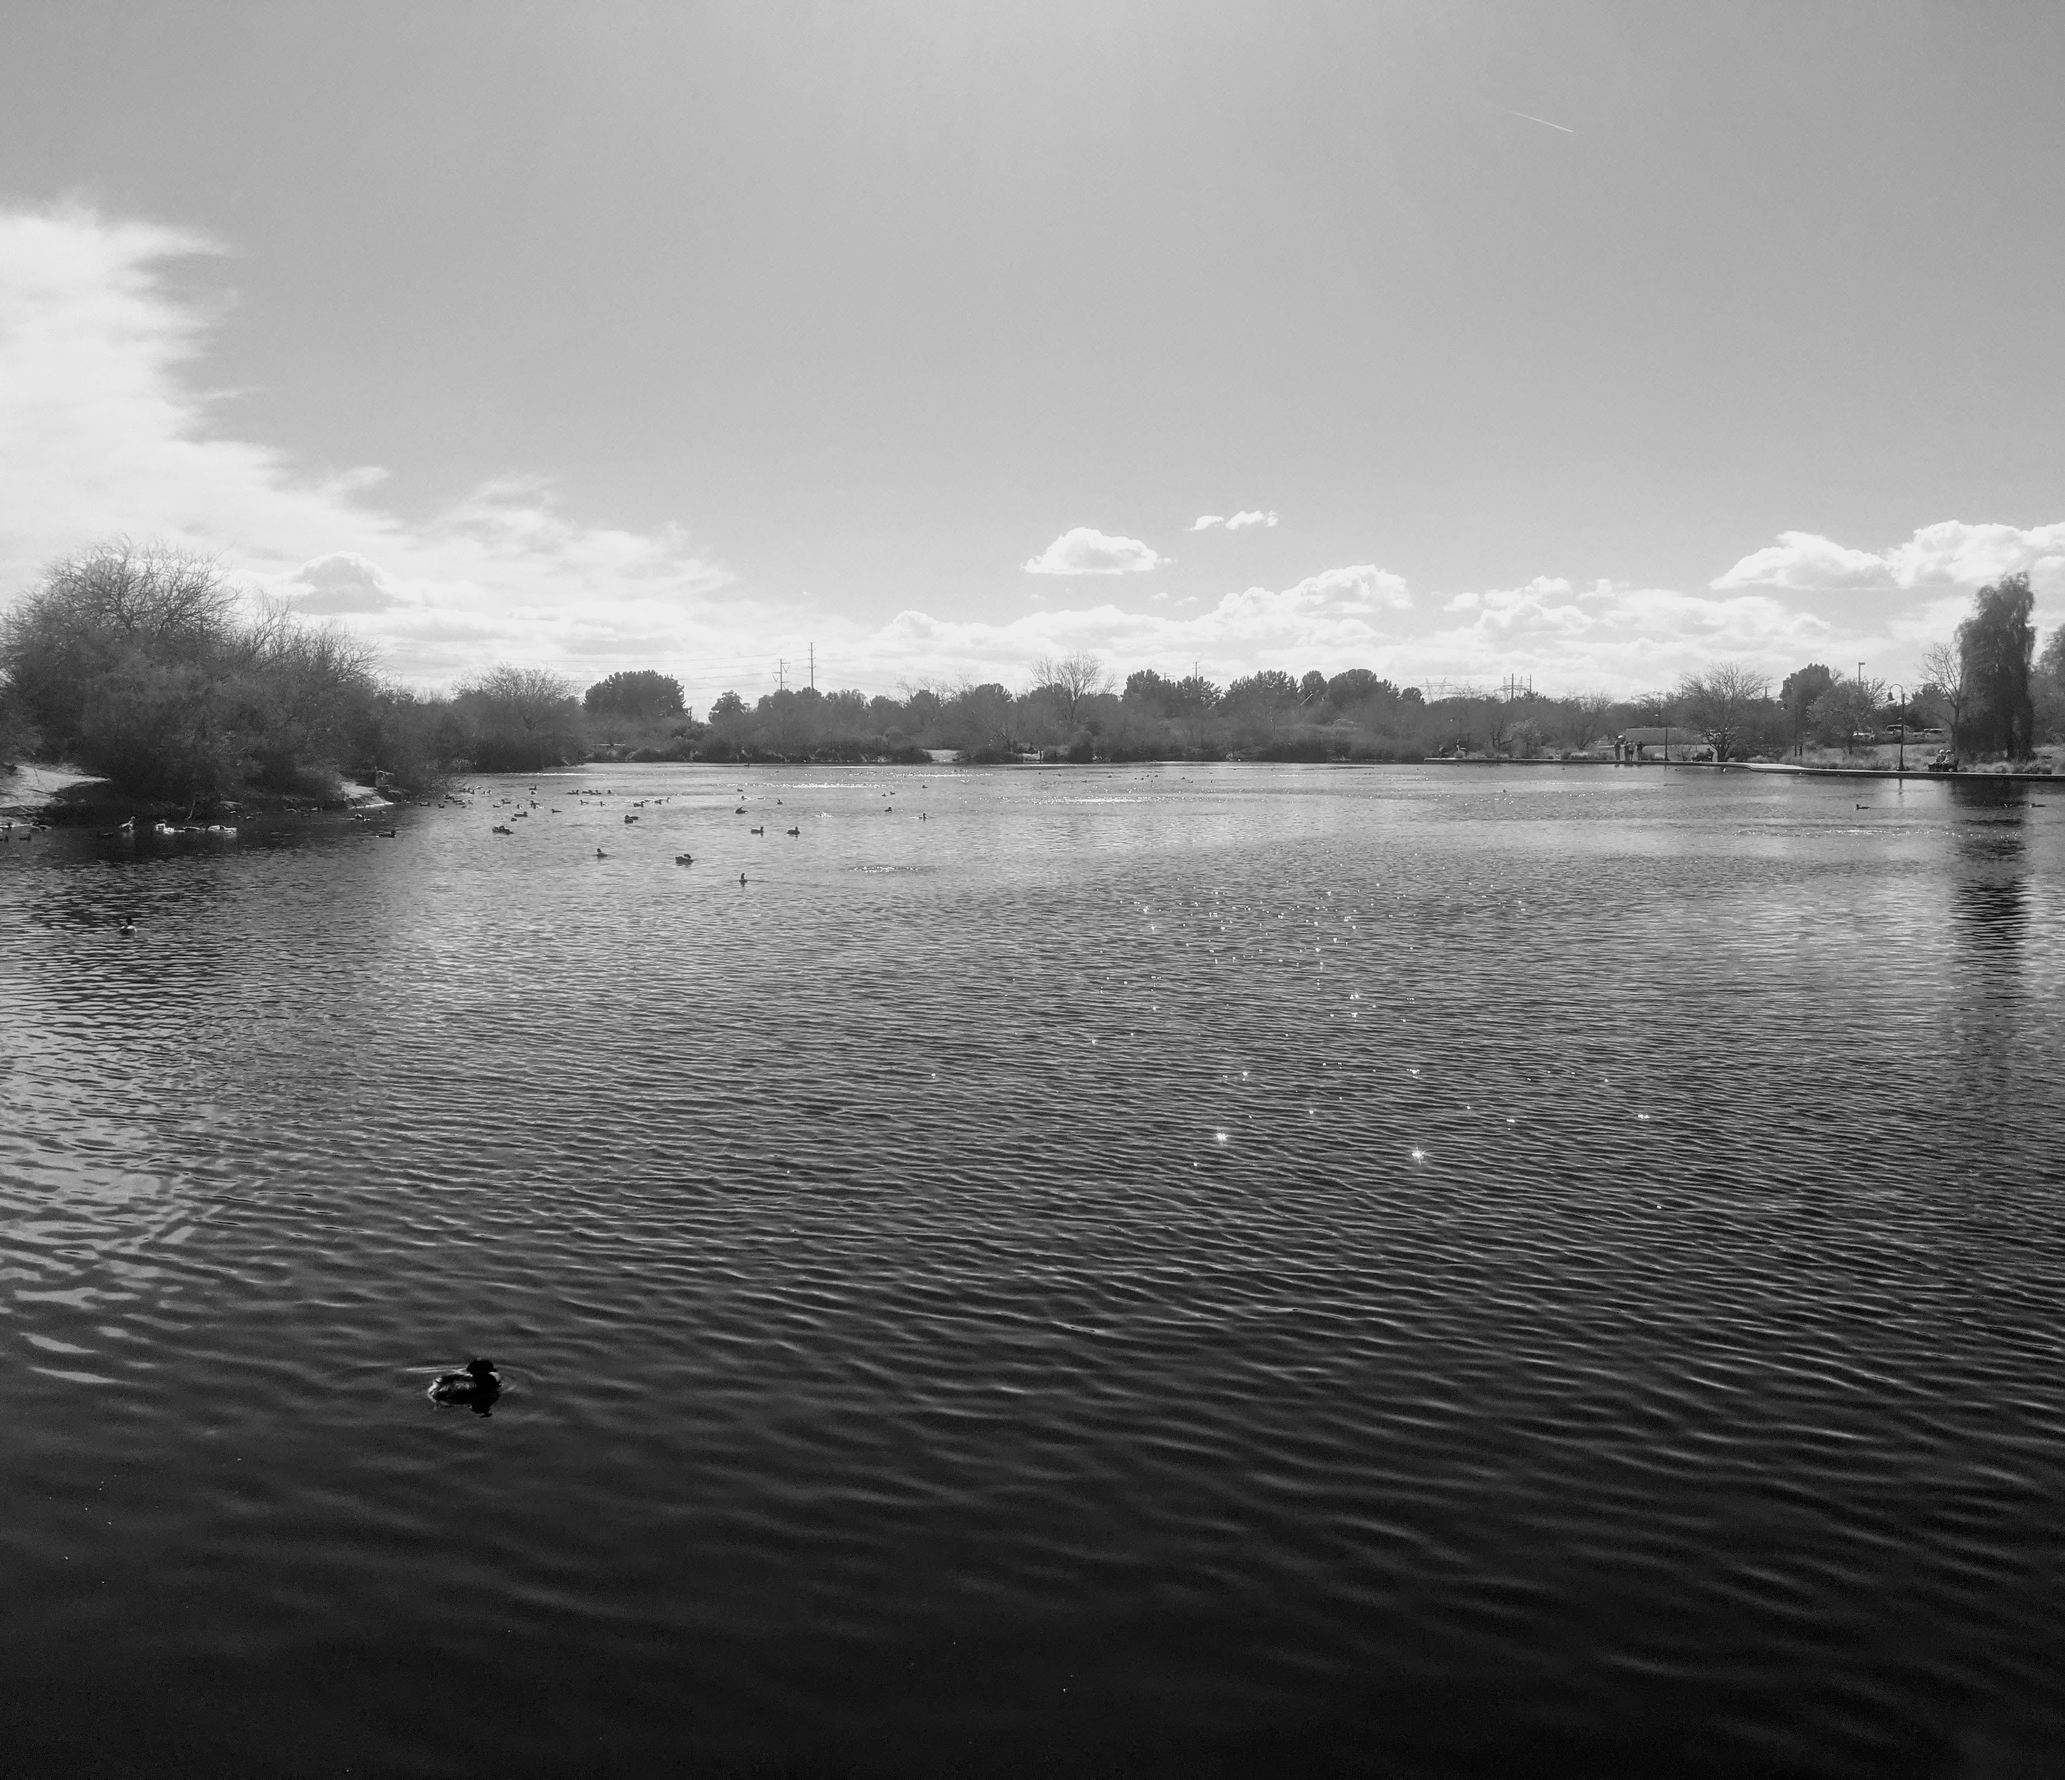
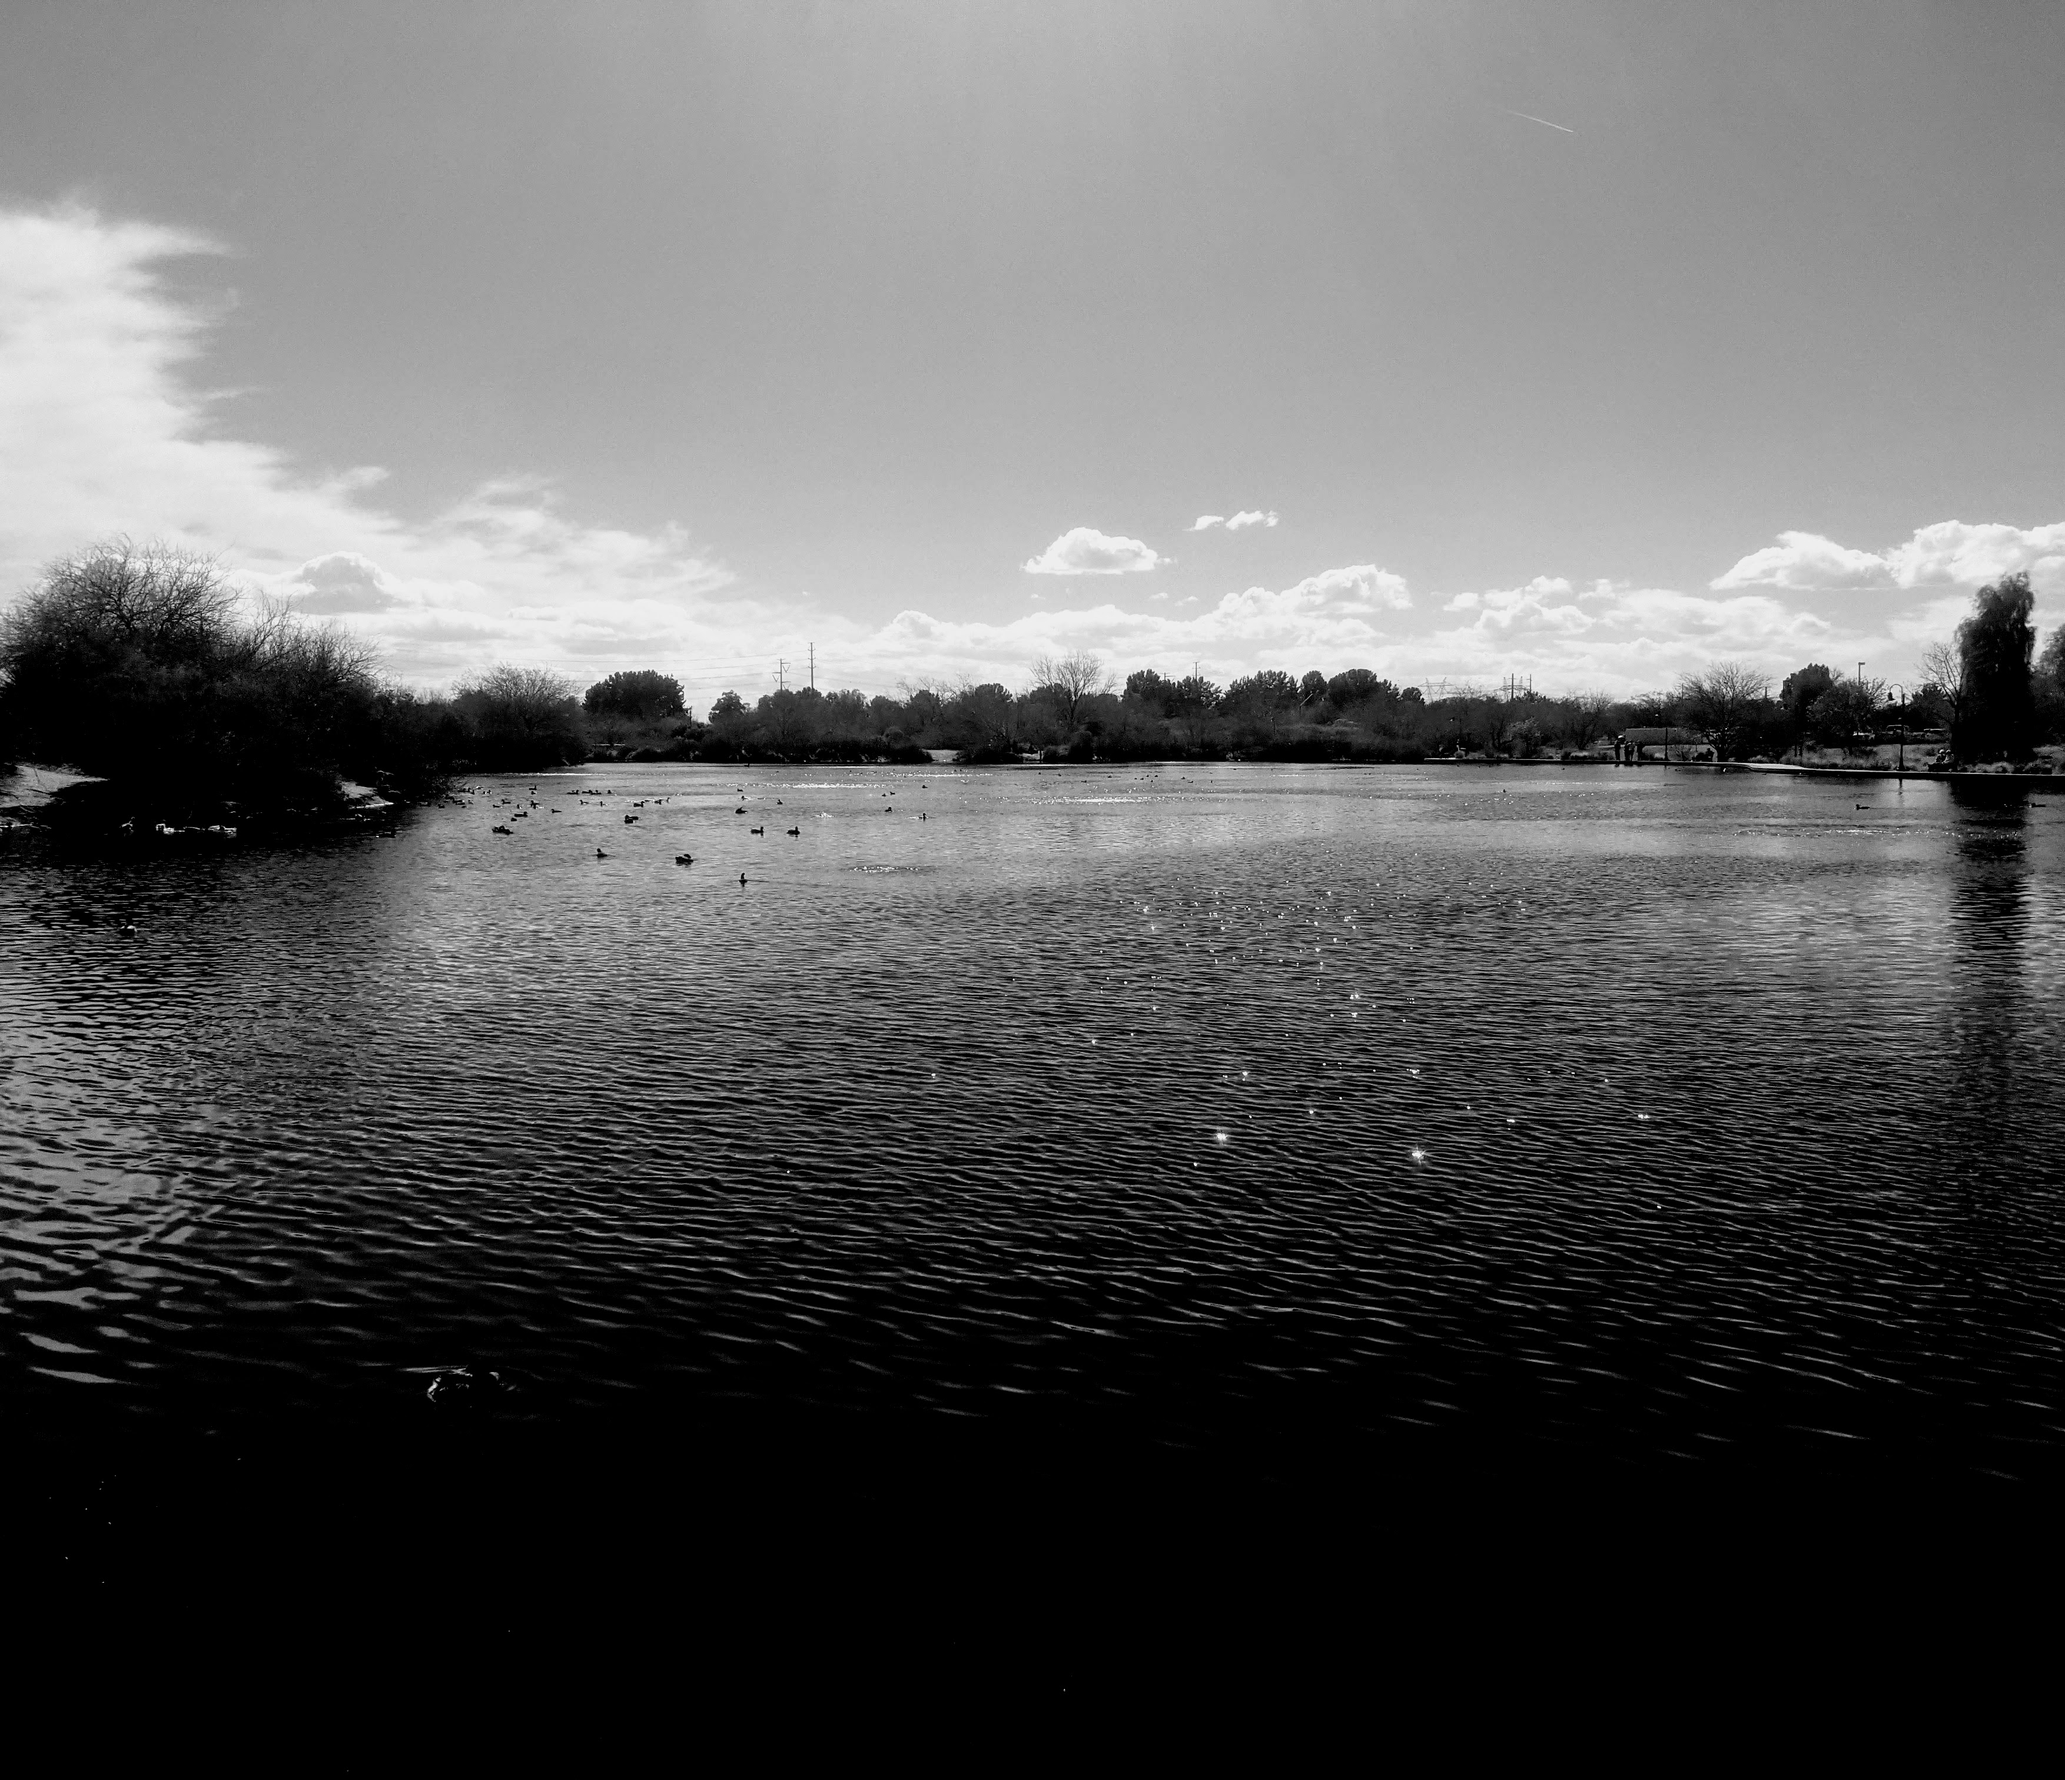
removed es files, darkened bg image, updated config, updated module name

diff --git a/content/post/post.3.en.md b/content/post/post.3.en.md
@@ -8,6 +8,8 @@ description = 'Trip back to Barrett Jackson collector car auction after a bit of
 
 ### More Barrett Jackson Photos!
 
+
+
 ![Photo](/images/barrett-jackson02.jpg)
 
 ![Photo](/images/barrett-jackson03.jpg)

diff --git a/content/post/post.1.en.md b/content/post/post.1.en.md
@@ -1,5 +1,5 @@
 +++
-title = 'St. Louis Cardinals Game in AZ!'
+title = 'St. Louis Cardinals Game!'
 date = "2021-08-29T09:30:00"
 slug = 'stl-game'
 image = 'images/az-baseball-game.jpg'
